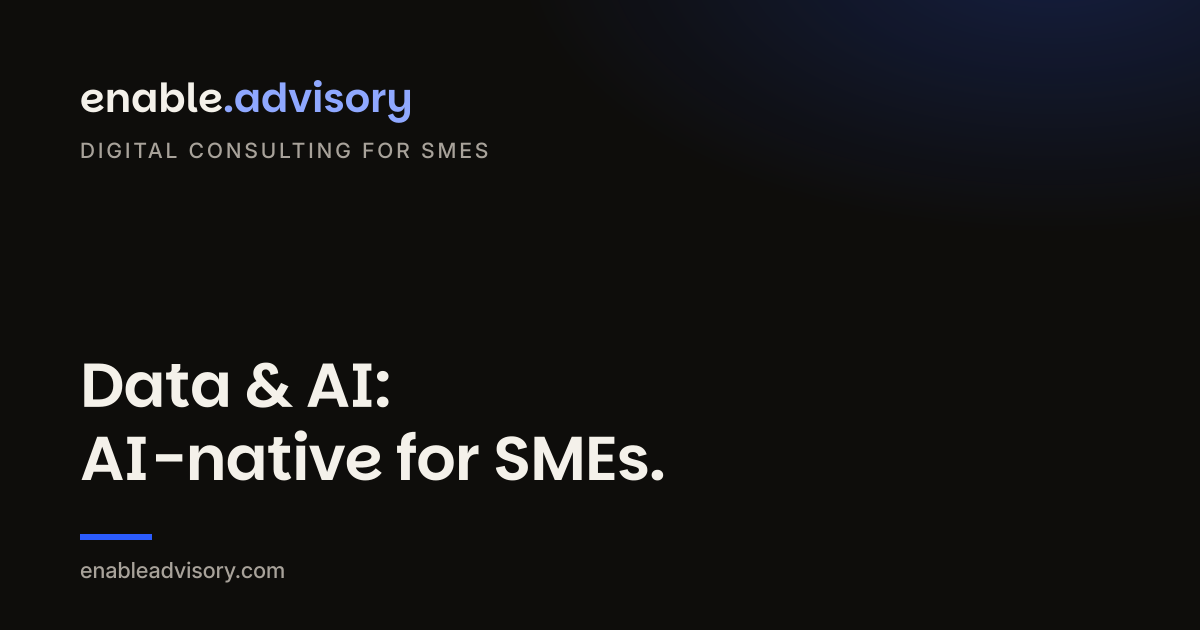
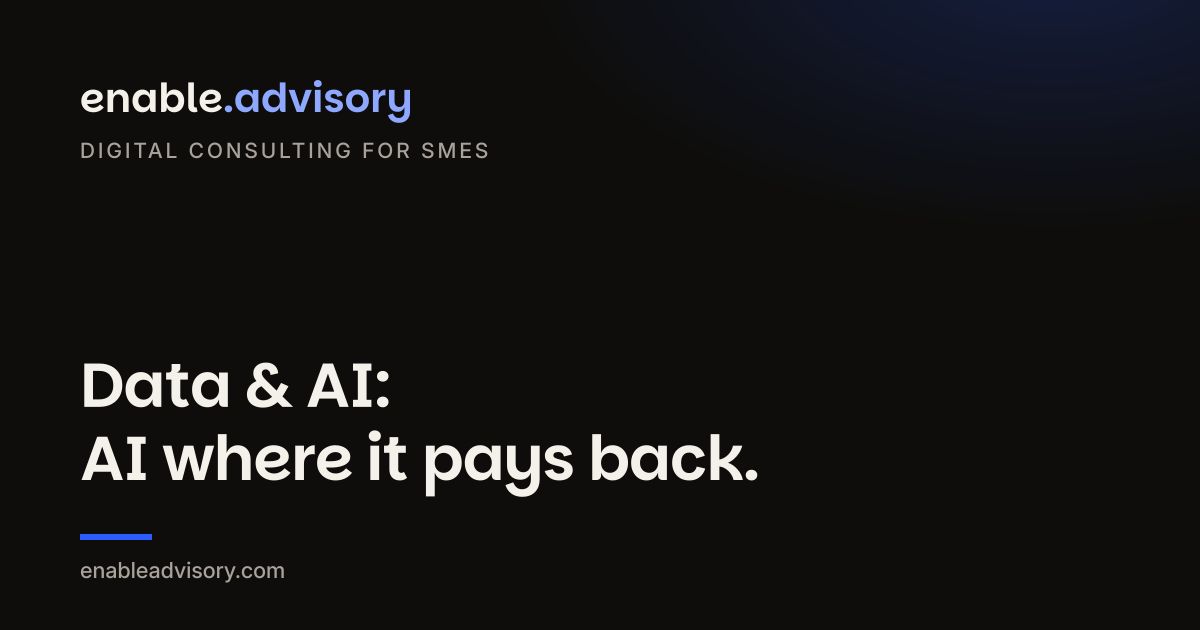
Give the form a success state; de-duplicate vertical copy; drop vendor jargon
The contact form had no designed success state — the panel's highest
non-blocker finding. There are now thank-you pages in both languages,
noindex and excluded from the sitemap since they are reachable only after
a submission. The form carries _next, _subject and _language, so
connecting it is a one-line change. Until the endpoint exists the submit
button is replaced by the direct email address rather than a button that
posts nowhere.

The build check learned two rules this required: a noindex page must not
carry a canonical or appear in the sitemap, and every sitemap URL must
carry its alternates rather than merely some of them.

Copy: three of the four vertical pages recycled the same sentences
verbatim, and the cross-links between them guaranteed a reader met the
same line twice. Each vertical now says it in its own words. The
contractual right-to-terminate line is deliberately left identical across
pages — a contractual promise should read the same everywhere.

The Data & AI claim moves from "AI-native per PMI" to "l'AI dove rende
davvero", taken from that vertical's own H1. It was the only one of the
four claims written in vendor language while the other three were
concrete Italian. This is the one deliberate deviation from the brief's
assigned messaging, easily reverted by searching the phrase.

Also aligned: the Italian pages promise "24 ore lavorative" throughout
while the English promise "one business day", and the contact-page note
[…]

Changed region(s): [[0.1233, 0.6635, 0.6167, 0.7841]]

diff --git a/src/lib/i18n.ts b/src/lib/i18n.ts
@@ -57,6 +57,9 @@ export const ui = {
         'Dimensione azienda, settore, cosa non sta funzionando, scadenze normative…',
       privacy: 'Ho letto l’informativa privacy e acconsento al trattamento dei dati.',
       submit: 'Invia la richiesta',
+      pendingTitle: 'Il form non è ancora collegato.',
+      pendingText:
+        'Stiamo completando la configurazione. Nel frattempo scrivici qui: leggiamo tutto e rispondiamo entro 24 ore lavorative.',
       note: 'Rispondiamo entro 24 ore lavorative. Sempre una persona, mai un autoresponder.',
     },
     notFound: {
@@ -120,6 +123,9 @@ export const ui = {
         'Company size, sector, what is not working, regulatory deadlines…',
       privacy: 'I have read the privacy policy and consent to data processing.',
       submit: 'Send request',
+      pendingTitle: 'The form isn’t connected yet.',
+      pendingText:
+        'We’re finishing the setup. In the meantime write to us here: we read everything and reply within one business day.',
       note: 'We reply within one business day. Always a person, never an autoresponder.',
     },
     notFound: {

diff --git a/src/lib/routes.ts b/src/lib/routes.ts
@@ -37,6 +37,8 @@ export const routes = {
     en: '/en/resources/ai-for-smes-guide/',
   },
   contact: { it: '/it/contatti/', en: '/en/contact/' },
+  /** Stato di successo del form: noindex, fuori dalla sitemap. */
+  thankYou: { it: '/it/grazie/', en: '/en/thank-you/' },
   privacy: { it: '/it/privacy/', en: '/en/privacy/' },
   cookies: { it: '/it/cookie-policy/', en: '/en/cookie-policy/' },
   accessibility: { it: '/it/accessibilita/', en: '/en/accessibility/' },

diff --git a/README.md b/README.md
@@ -100,7 +100,7 @@ scripts/generate-og.mjs   generatore immagini OG (sharp)
 1. **Prezzi dei 4 prodotti d'ingresso** → sostituire i `[PREZZO]` (home, prodotti, verticali, guide).
 2. **Nomi, ruoli, foto e bio dei senior** → `[PLACEHOLDER: NOME]`, `[BIO SENIOR]` in home, chi-siamo e verticali. Il posizionamento "named partner" non regge senza.
 3. **Dati societari e contatti**: ragione sociale/P.IVA (footer), email, link calendario (Cal.com/Calendly), numero WhatsApp → pagina contatti. I due CTA calendario/WhatsApp sono volutamente disattivati finché non esistono gli URL.
-4. **Endpoint del form** (Formspree o webhook n8n) → `FORM_ENDPOINT` in `src/components/ContactForm.astro`. Con l'endpoint, configurare anche il **redirect post-invio** a una pagina di ringraziamento: oggi l'invio non ha uno stato di successo progettato.
+4. **Endpoint del form** (Formspree o webhook n8n) → unica riga da toccare: `FORM_ENDPOINT` in `src/components/ContactForm.astro`. Tutto il resto è già collegato: a invio riuscito il campo `_next` porta a `/it/grazie/` o `/en/thank-you/` (pagine già scritte, noindex, fuori sitemap), e `_subject`/`_language` arrivano compilati. Finché l'endpoint è vuoto il bottone di invio è sostituito dalla mail diretta, così non esiste un submit che porta a un errore.
 5. **Validazione legale** di privacy e cookie policy.
 
 **Lavoro meccanico, dopo i punti sopra:**
